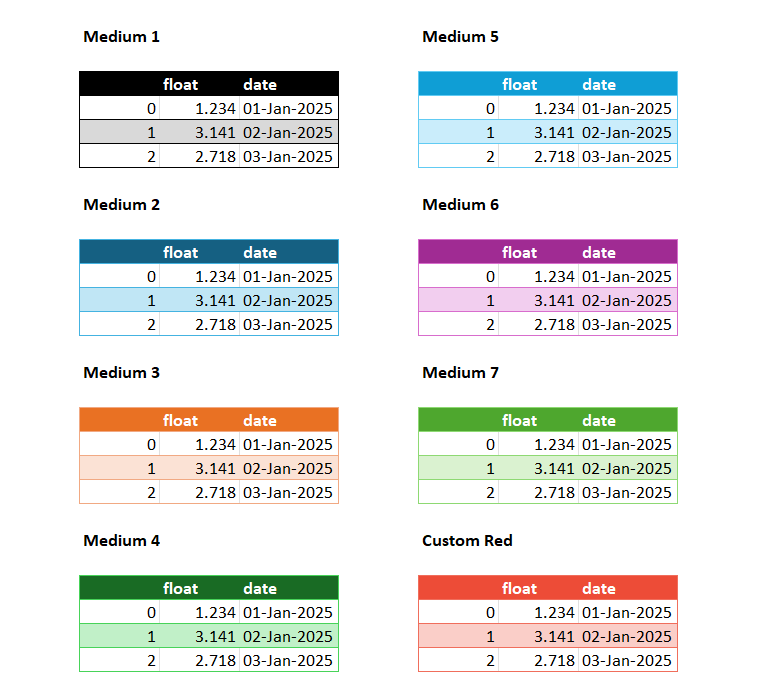
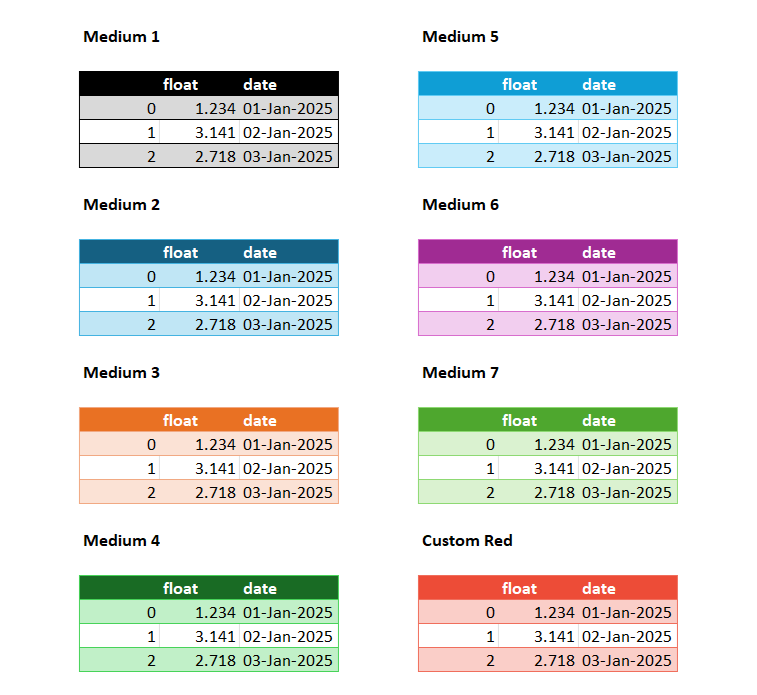
Fixed issue with incorrect formatting when index=None, fixed image url in README.md, added ability to specify alignment of columns

diff --git a/src/openpyxl_table_formatter/__init__.py b/src/openpyxl_table_formatter/__init__.py
@@ -1,5 +1,5 @@
 import pandas as pd
-from openpyxl.styles import Border, Font, PatternFill, Side
+from openpyxl.styles import Alignment, Border, Font, PatternFill, Side
 from openpyxl.utils.dataframe import dataframe_to_rows
 from openpyxl.worksheet.worksheet import Worksheet
 
@@ -16,6 +16,7 @@ def add_formatted_table_to_worksheet(
     header: bool = True,
     style: str = "Medium 2",
     columns_formats: list[str] | None = None,
+    columns_alignment: list[str] | None = None,
 ) -> None:
     """Appends a pandas DataFrame to file using one of default MS Office formattings.
 
@@ -34,7 +35,9 @@ def add_formatted_table_to_worksheet(
     style: str, default: "Medium 2"
         Style of table, from the Office 365 standard templates.
     columns_formats: list of str or None, default: None
-        List of formats for each column, should follow Office 365 format standard.
+        List of formats for each column, should follow Office 365 format standard, e.g. 'dd-mmm-yyyy'.
+    columns_formats: list of str or None, default: None
+            List of alignments for each column, should follow Office 365 standard, e.g. 'left', 'center', 'right'.
     """
     match style:
         case "Medium 1":
@@ -167,7 +170,13 @@ def add_formatted_table_to_worksheet(
                             bottom=Side(style="thin", color=border_color),
                         )
             else:
-                if header:
+                if header and index:
+                    is_odd_row = row_count % 2 == 0
+                    current_row = start_row + row_count - 1
+                elif header and not index:
+                    is_odd_row = row_count % 2 == 0
+                    current_row = start_row + row_count
+                elif not header and index:
                     is_odd_row = row_count % 2 == 1
                     current_row = start_row + row_count - 1
                 else:
@@ -182,6 +191,12 @@ def add_formatted_table_to_worksheet(
                         len(columns_formats) == len(dataframe_row)
                     ):
                         current_cell.number_format = columns_formats[column_number]
+                    if (columns_alignment is not None) and (
+                        len(columns_alignment) == len(dataframe_row)
+                    ):
+                        current_cell.alignment = Alignment(
+                            horizontal=columns_alignment[column_number]
+                        )
                     if column_number == 0:
                         current_cell.border = Border(
                             top=Side(style="thin", color=border_color),

diff --git a/README.md b/README.md
@@ -3,7 +3,7 @@
 A simple package to help export pandas DataFrame to Excel files.
 
 Currently available themes:
-![Themes](https://github.com/arkadiuszhryc/openpyxl_table_formatter/blob/main/table_themes.png)
+![Themes](https://raw.githubusercontent.com/arkadiuszhryc/openpyxl_table_formatter/main/table_themes.png)
 
 ## Instalation
 
